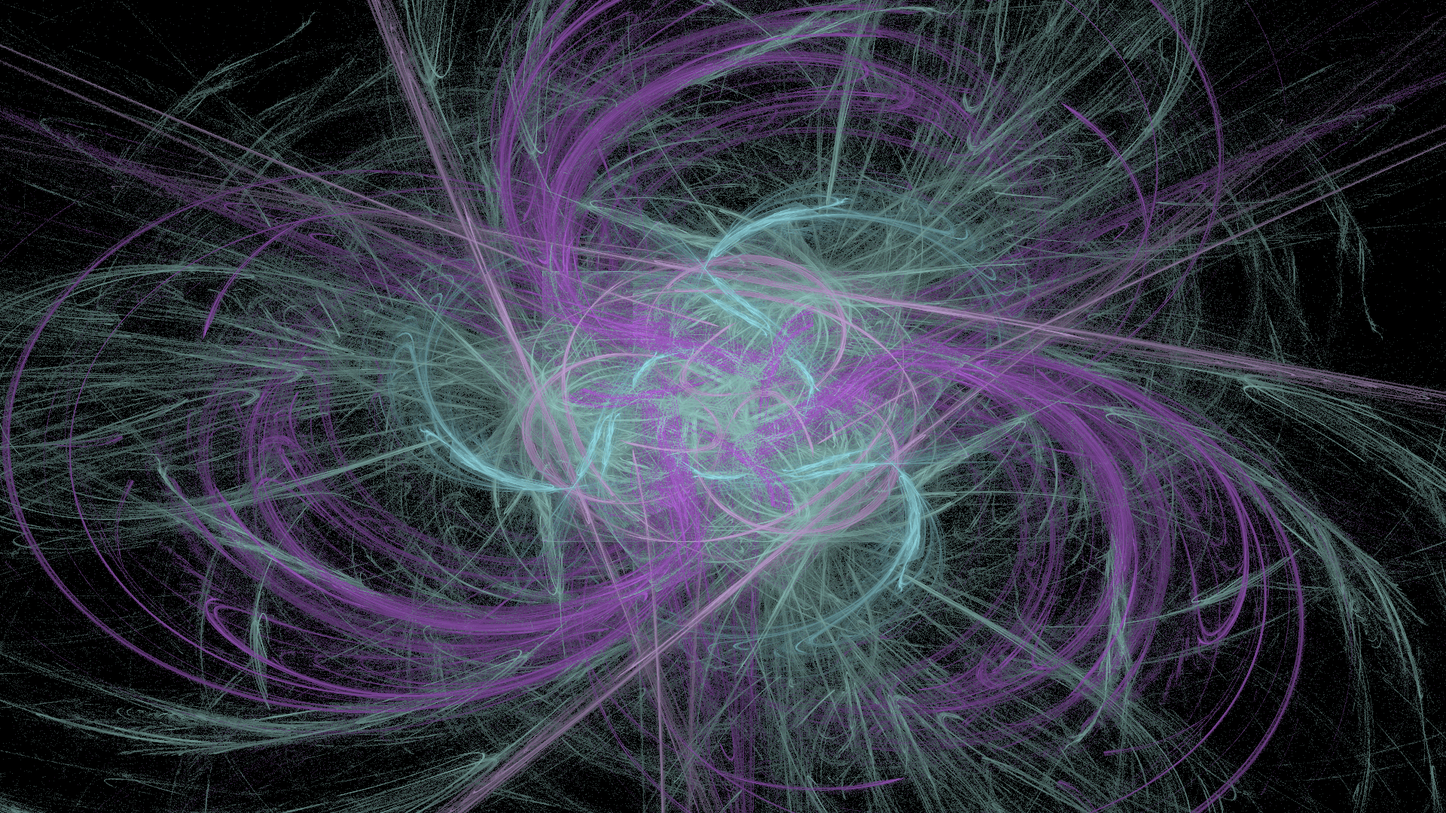
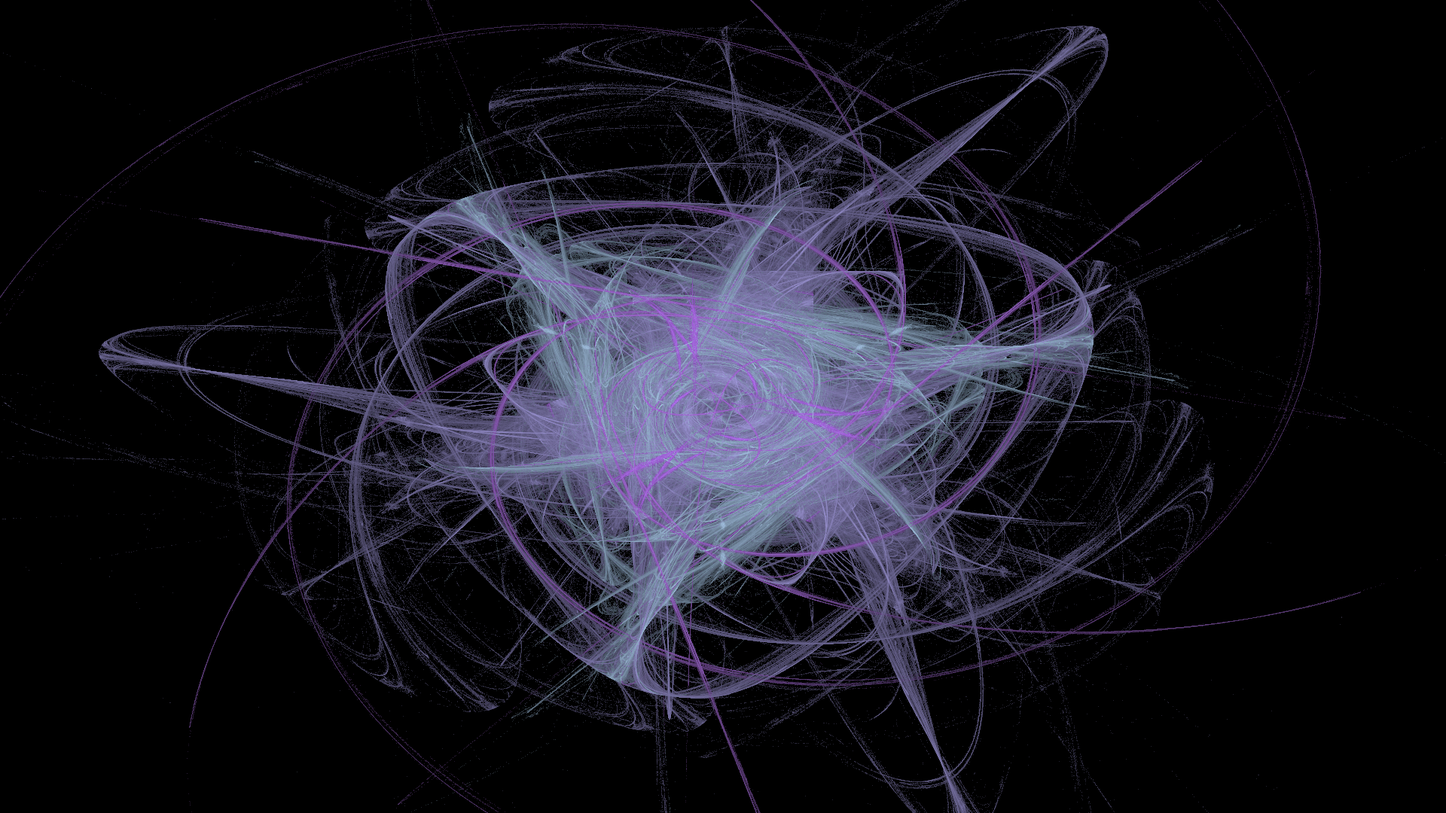
MultiThread version

diff --git a/src/main/java/backend/academy/renderers/RendererAbstract.java b/src/main/java/backend/academy/renderers/RendererAbstract.java
@@ -13,13 +13,12 @@ import lombok.RequiredArgsConstructor;
 import java.awt.Color;
 import java.util.ArrayList;
 import java.util.List;
-import java.util.Random;
+import java.util.concurrent.ThreadLocalRandom;
 
 @RequiredArgsConstructor
 public abstract class RendererAbstract implements Renderer {
 
     private static final int NORMALIZATION_STEPS_COUNT = 20;
-    private static final Random random = new Random();
 
     protected final int affineCount;
     protected final int samples;
@@ -55,13 +54,13 @@ public abstract class RendererAbstract implements Renderer {
         Rect rect,
         List<AffineTransformation> affineTransformations
     ) {
-        double[] cords = new double[] {random.nextDouble() * rect.width(), Math.random() * rect.height()};
+        double[] cords = new double[] {ThreadLocalRandom.current().nextDouble() * rect.width(), Math.random() * rect.height()};
         for (int i = -NORMALIZATION_STEPS_COUNT; i < iterations; i++) {
             AffineTransformation affineTransformation = affineTransformations.get(
-                random.nextInt(affineTransformations.size())
+                ThreadLocalRandom.current().nextInt(affineTransformations.size())
             );
             Transformation transformation = transformations.get(
-                random.nextInt(transformations.size())
+                ThreadLocalRandom.current().nextInt(transformations.size())
             );
 
             cords = affineTransformation.apply(cords[0], cords[1]);

diff --git a/src/main/java/backend/academy/service/MainService.java b/src/main/java/backend/academy/service/MainService.java
@@ -6,6 +6,7 @@ import backend.academy.model.FractalImage;
 import backend.academy.model.Rect;
 import backend.academy.model.WorldInfo;
 import backend.academy.processors.GammaCorrectionProcessor;
+import backend.academy.renderers.MultiThreadRenderer;
 import backend.academy.renderers.SingleThreadRenderer;
 import backend.academy.transormations.Transformation;
 import backend.academy.utils.ImageUtils;
@@ -60,9 +61,9 @@ public class MainService {
     }
 
     private FractalImage generateImage(WorldInfo worldInfo){
-        FractalImage image = new SingleThreadRenderer(
+        FractalImage image = new MultiThreadRenderer(
             4,
-            10,
+            20,
             worldInfo.iterations(),
             3,
             worldInfo.transformations(),
